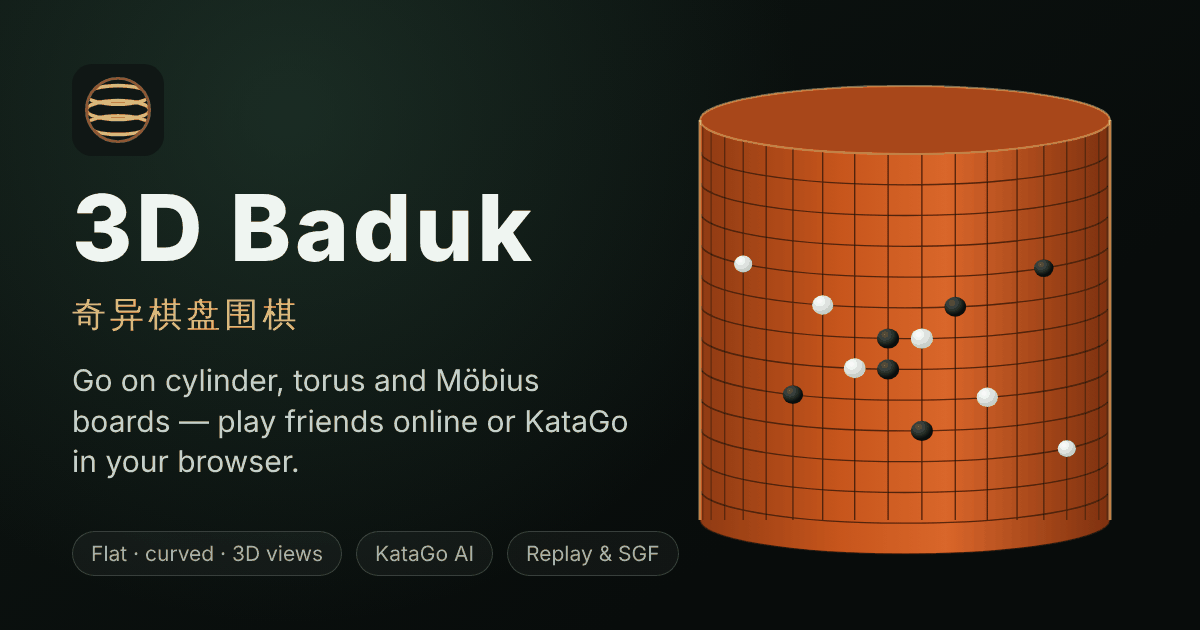
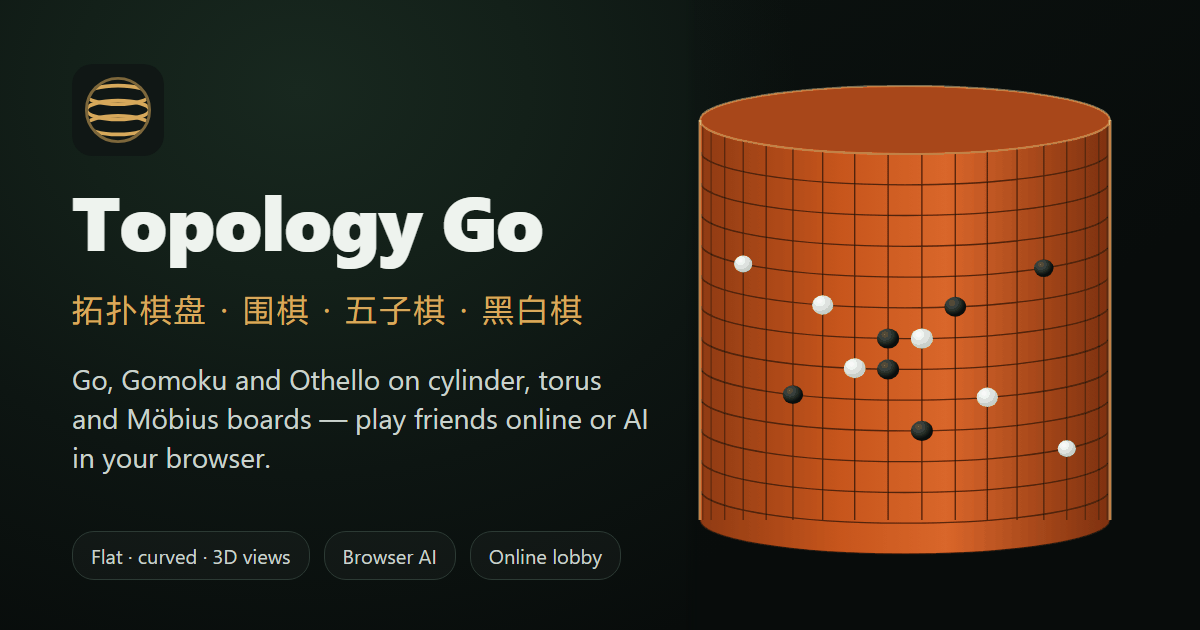
chore: rename the product to Topology Go
The page title, link previews, manifest, favicon, brand, release titles,
SGF application name and package name now say Topology Go, matching the
topology-go Worker and domain. The subtitle names all three games
instead of Go only, and the preview image is redrawn with the new name.

Protocol names, storage keys and Durable Object names keep their
bamboo-baduk/Baduk names: they are persisted or on the wire.

diff --git a/index.html b/index.html
@@ -6,43 +6,43 @@
     <meta name="theme-color" content="#101715" />
     <meta
       name="description"
-      content="3D Baduk：支持竹筒、甜甜圈与莫比乌斯棋盘、KataGo AI、音效、悔棋、完整复盘、在线对局以及平面和三维视图。"
+      content="Topology Go：在竹筒、甜甜圈与莫比乌斯棋盘上下围棋、五子棋和黑白棋，内置浏览器 AI，支持悔棋、完整复盘、在线大厅与对局，以及平面和三维视图。"
     />
     <link rel="icon" href="/favicon.svg" type="image/svg+xml" />
     <link rel="icon" href="/icons/icon-192.png" sizes="192x192" type="image/png" />
     <link rel="apple-touch-icon" href="/icons/apple-touch-icon.png" />
     <link rel="manifest" href="/manifest.webmanifest" />
     <meta property="og:type" content="website" />
-    <meta property="og:site_name" content="3D Baduk" />
-    <meta property="og:title" content="3D Baduk · 奇异棋盘围棋" />
+    <meta property="og:site_name" content="Topology Go" />
+    <meta property="og:title" content="Topology Go · 拓扑棋盘上的围棋、五子棋、黑白棋" />
     <meta
       property="og:description"
-      content="3D Baduk：支持竹筒、甜甜圈与莫比乌斯棋盘、KataGo AI、音效、悔棋、完整复盘、在线对局以及平面和三维视图。"
+      content="Topology Go：在竹筒、甜甜圈与莫比乌斯棋盘上下围棋、五子棋和黑白棋，内置浏览器 AI，支持悔棋、完整复盘、在线大厅与对局，以及平面和三维视图。"
     />
     <!-- Link previews need an absolute image URL: the public deployment (README). -->
     <meta property="og:image" content="https://topology-go.pystashell.workers.dev/og-image.png" />
     <meta property="og:image:width" content="1200" />
     <meta property="og:image:height" content="630" />
-    <meta property="og:image:alt" content="3D Baduk：竹筒棋盘上的围棋" />
+    <meta property="og:image:alt" content="Topology Go：竹筒棋盘上的围棋" />
     <meta name="twitter:card" content="summary_large_image" />
-    <meta name="twitter:title" content="3D Baduk · 奇异棋盘围棋" />
+    <meta name="twitter:title" content="Topology Go · 拓扑棋盘上的围棋、五子棋、黑白棋" />
     <meta
       name="twitter:description"
-      content="3D Baduk：支持竹筒、甜甜圈与莫比乌斯棋盘、KataGo AI、音效、悔棋、完整复盘、在线对局以及平面和三维视图。"
+      content="Topology Go：在竹筒、甜甜圈与莫比乌斯棋盘上下围棋、五子棋和黑白棋，内置浏览器 AI，支持悔棋、完整复盘、在线大厅与对局，以及平面和三维视图。"
     />
     <meta name="twitter:image" content="https://topology-go.pystashell.workers.dev/og-image.png" />
-    <title>3D Baduk · 奇异棋盘围棋</title>
+    <title>Topology Go · 拓扑棋盘上的围棋、五子棋、黑白棋</title>
   </head>
   <body>
     <div id="app">
       <header class="topbar">
-        <a class="brand" href="/single" aria-label="3D Baduk 首页">
+        <a class="brand" href="/single" aria-label="Topology Go 首页">
           <span class="brand-mark" aria-hidden="true">
             <span></span><span></span><span></span>
           </span>
           <span>
-            <strong>3D Baduk</strong>
-            <small>奇异棋盘围棋</small>
+            <strong>Topology Go</strong>
+            <small>围棋 · 五子棋 · 黑白棋</small>
           </span>
         </a>
         <div class="topbar-actions">
@@ -61,7 +61,7 @@
       <main id="lobby-screen" class="online-lobby" aria-labelledby="lobby-title" hidden>
         <section class="lobby-hero">
           <div>
-            <span class="eyebrow">3D Baduk Online</span>
+            <span class="eyebrow">Topology Go Online</span>
             <h1 id="lobby-title">奇异棋盘在线大厅</h1>
             <p>创建竹筒、甜甜圈或莫比乌斯棋局；好友、人机、AI 自对弈和同机双人都可实时同步并开放观战。</p>
           </div>
@@ -147,7 +147,7 @@
           data-topology="cylinder"
           data-chat-pick-hint="📍 点击一个棋点引用到聊天（不会落子）"
           data-analysis-pick-hint="◇ 点击棋点，只在本页建立分析分支"
-          aria-label="3D Baduk 棋盘区域"
+          aria-label="Topology Go 棋盘区域"
         >
           <div id="flat-scene" class="view-surface" aria-label="可横向滑动的竹筒表面平面展开棋盘" hidden></div>
           <div id="arc-scene" class="view-surface" aria-label="可横向循环滑动的3D弧面棋盘"></div>
@@ -522,7 +522,7 @@
             <div>
               <span class="eyebrow">SGF 棋谱</span>
               <strong id="record-actions-title">保存或打开异形棋谱</strong>
-              <small>标准棋步保持兼容，接缝规则写入 3D Baduk 扩展属性</small>
+              <small>标准棋步保持兼容，接缝规则写入 Topology Go 扩展属性</small>
             </div>
             <div class="record-action-buttons">
               <button id="export-sgf" class="secondary-button" type="button">导出 SGF</button>

diff --git a/src/i18n/englishStatic.js b/src/i18n/englishStatic.js
@@ -55,11 +55,11 @@ export const ENGLISH_STATIC = Object.freeze({
   "◉ 立体莫比乌斯": "◉ 3D Möbius",
   "19 × 19 · 竹筒 · 中国规则": "19 × 19 · Cylinder · Chinese rules",
   "19 路 · 竹筒": "19 × 19 · Cylinder",
-  "3D Baduk · 奇异棋盘围棋": "3D Baduk · Go on Unusual Boards",
-  "3D Baduk 棋盘区域": "3D Baduk board area",
-  "3D Baduk 首页": "3D Baduk home",
-  "3D Baduk：支持竹筒、甜甜圈与莫比乌斯棋盘、KataGo AI、音效、悔棋、完整复盘、在线对局以及平面和三维视图。":
-    "3D Baduk supports cylinder, torus, and Möbius boards, KataGo AI, sound effects, undo, full-game replay, online play, and flat and 3D views.",
+  "Topology Go · 拓扑棋盘上的围棋、五子棋、黑白棋": "Topology Go · Go, Gomoku & Othello on Unusual Boards",
+  "Topology Go 棋盘区域": "Topology Go board area",
+  "Topology Go 首页": "Topology Go home",
+  "Topology Go：在竹筒、甜甜圈与莫比乌斯棋盘上下围棋、五子棋和黑白棋，内置浏览器 AI，支持悔棋、完整复盘、在线大厅与对局，以及平面和三维视图。":
+    "Topology Go: play Go, Gomoku and Othello on cylinder, torus and Möbius boards, with in-browser AI, undo, full-game replay, an online lobby and rooms, and flat and 3D views.",
   "AI · 白方": "AI · White",
   "AI 自对弈": "AI vs AI",
   "AI 和 AI 自动对弈": "AI vs AI autoplay",
@@ -167,7 +167,7 @@ export const ENGLISH_STATIC = Object.freeze({
   "复盘播放器": "Replay player",
   "复盘播放控制": "Replay controls",
   "复盘整局": "Replay full game",
-  "奇异棋盘围棋": "Go on Unusual Boards",
+  "围棋 · 五子棋 · 黑白棋": "Go · Gomoku · Othello",
   "尚未开始": "Not started",
   "实时联机": "Live online",
   "宽度": "Width",
@@ -230,8 +230,8 @@ export const ENGLISH_STATIC = Object.freeze({
   "本机 AI 对手": "Local AI opponent",
   "标准 · 20 分钟 + 5×30 秒":
     "Standard · 20 minutes + 5×30 seconds",
-  "标准棋步保持兼容，接缝规则写入 3D Baduk 扩展属性":
-    "Standard moves remain compatible; seam rules are stored in 3D Baduk extension properties",
+  "标准棋步保持兼容，接缝规则写入 Topology Go 扩展属性":
+    "Standard moves remain compatible; seam rules are stored in Topology Go extension properties",
   "桌面端右键、触屏单指可向上下左右或斜向拖动平面，改变两个方向的展开起点。":
     "Right-drag on desktop or drag with one finger on touch screens in any cardinal or diagonal direction to shift the flat view's horizontal and vertical seams.",
   "桌面端右键、触屏单指可横向拖动平面；滑过完整一圈后棋盘会上下翻转，再滑一圈才恢复方向。":
@@ -379,7 +379,7 @@ export const ENGLISH_STATIC = Object.freeze({
   "黑方 · 你先行": "Black · You move first",
   "黑方提子": "Black captures",
   "黑方落子": "Black to move",
-  "3D Baduk：竹筒棋盘上的围棋": "3D Baduk: Go on a cylinder board",
+  "Topology Go：竹筒棋盘上的围棋": "Topology Go: Go on a cylinder board",
   // Online dialog identity recovery panels
   "此浏览器保存了房间身份": "This browser saved a room identity",
   "请选择要恢复的身份；若要以新身份观战或加入，请使用下方按钮。":

diff --git a/test/appShellMeta.test.js b/test/appShellMeta.test.js
@@ -26,7 +26,7 @@ test("the page declares a favicon, touch icon and web app manifest that exist", 
 
   const manifestPath = headAttribute(/<link rel="manifest" href="([^"]+)" \/>/u);
   const manifest = JSON.parse(readFileSync(publicFile(manifestPath), "utf8"));
-  assert.equal(manifest.short_name, "3D Baduk");
+  assert.equal(manifest.short_name, "Topology Go");
   assert.equal(manifest.start_url, "/single");
   assert.equal(manifest.display, "standalone");
   for (const entry of manifest.icons) {

diff --git a/src/game/sgf.js b/src/game/sgf.js
@@ -375,7 +375,7 @@ export function exportSgf(input, options = {}) {
     property("FF", "4"),
     property("GM", "1"),
     property("CA", "UTF-8"),
-    property("AP", "3D Baduk:1"),
+    property("AP", "Topology Go:1"),
     property("SZ", width === height ? width : `${width}:${height}`),
     property("KM", formatNumber(base.komi ?? 0, "komi")),
     property("RU", rules),

diff --git a/docs/PRODUCT_REQUIREMENTS.md b/docs/PRODUCT_REQUIREMENTS.md
@@ -1,9 +1,9 @@
-# 3D Baduk 产品需求与技术复刻规范
+# Topology Go 产品需求与技术复刻规范
 
 > 文档版本：1.4
 > 代码快照：`codex/大厅版` 当前工作区，包含 setup-first 在线房间、持久多轮对局、隐藏大厅单向索引、矩形棋盘、SGF、AI 自对弈、聊天、权威计时、观战分析和版本化发布等增量；最终测试与线上状态仍以第 20、21 节的实测证据为准
-> 产品名称：**3D Baduk（奇异棋盘围棋）**
-> 公开入口：<https://bamboo-baduk.pystashell.workers.dev/>（不代表当前工作区增量已部署）
+> 产品名称：**Topology Go（拓扑棋盘上的围棋、五子棋、黑白棋）**；2026-10 之前叫 3D Baduk（奇异棋盘围棋）。本规范正文以围棋为主，五子棋、黑白棋见 `docs/design/multi-game-plan.md`
+> 公开入口：<https://topology-go.pystashell.workers.dev/>（不代表当前工作区增量已部署）
 > 目标读者：需要在不了解历史讨论的情况下，完整复刻本项目的产品、前端、规则引擎、AI、联机服务和部署流程的工程团队或 AI
 
 ## 0. 文档效力、状态和原则
@@ -1243,7 +1243,7 @@ interface StoredRoomV2 {
 └────────────────────────────────────────┴───────────────────┘
 ~~~
 
-顶部必须直接并列三个拓扑快捷按钮“竹筒 / 甜甜圈 / 莫比乌斯”，设置区也提供对应的三项详细选择；两处高亮和 `aria-pressed` 始终同步。产品名始终显示“3D Baduk”，不得恢复“桶围棋”；竹筒只是棋盘类型。
+顶部必须直接并列三个拓扑快捷按钮“竹筒 / 甜甜圈 / 莫比乌斯”，设置区也提供对应的三项详细选择；两处高亮和 `aria-pressed` 始终同步。产品名始终显示“Topology Go”，不得恢复“桶围棋”或“3D Baduk”；竹筒只是棋盘类型。
 
 侧栏参考 OGS 的信息密度而不复制品牌：黑白棋手/时钟卡始终位于标签栏上方；下方固定五个标签“棋局 / 分析 / 聊天 / 棋谱 / 棋盘设置”。五个标签及其面板在 local/online、当前支持的 controller 组合和观战身份下必须是**同一组 DOM 节点**，只根据 match session snapshot 改内容、权限、disabled/hidden 子控件和提示；不得销毁本地侧栏再创建联机侧栏。一次只显示一个标签面板，隐藏面板不得占布局或进入键盘 Tab 顺序；标签切换不修改棋局、复盘光标、AI 请求或房间状态。
 
@@ -1697,7 +1697,7 @@ npm run deploy
 规范配置：
 
 ~~~text
-worker name       = bamboo-baduk
+worker name       = topology-go
 main              = worker/index.js
 compatibility     = 2026-07-01
 assets directory  = dist
@@ -1709,7 +1709,7 @@ observability     = enabled
 workers.dev       = enabled
 ~~~
 
-部署前必须确认 Wrangler 登录的是预期账户。不得猜测 workers.dev 子域；从部署输出读取真实 URL。目标公开地址为 <https://bamboo-baduk.pystashell.workers.dev/>。
+部署前必须确认 Wrangler 登录的是预期账户。不得猜测 workers.dev 子域；从部署输出读取真实 URL。目标公开地址为 <https://topology-go.pystashell.workers.dev/>。
 
 ### 21.3 部署前检查
 
@@ -1725,13 +1725,13 @@ workers.dev       = enabled
 
 部署成功不等于交付成功。必须验证：
 
-1. 打开真实 URL 得到最新页面标题“3D Baduk”，默认配置正确。
+1. 打开真实 URL 得到最新页面标题“Topology Go”，默认配置正确。
 2. `GET /api/rooms/health` 返回 200，`GET /version.json` 返回本次 SemVer，页面侧栏显示同一版本。
 3. b10 和 b18 四个分片均返回 200、正确 MIME/长度、可缓存；不存在大于平台单文件上限的合并 b18。
 4. 运行：
 
    ~~~powershell
-   npm run test:live -- https://bamboo-baduk.pystashell.workers.dev/
+   npm run test:live -- https://topology-go.pystashell.workers.dev/
    ~~~
 
    smoke 至少验证两个真实 WS 使用 `bamboo-baduk-v2`、双方状态一致、未审查 Unicode 正文及其 `D4` 权威坐标、固定表情包、计时快照、pass 和离开。
@@ -1775,7 +1775,7 @@ npm.cmd run release:rollback -- v0.2.0-rc.1 --yes
 
 ### 21.6 GitHub 交付面
 
-- 代码仓库为 [pystashell/bamboo-cylinder-baduk](https://github.com/pystashell/bamboo-cylinder-baduk)。历史仓库名可保留，但页面产品名和 README 标题使用 3D Baduk。
+- 代码仓库为 [pystashell/topology-go](https://github.com/pystashell/topology-go)（原名 bamboo-cylinder-baduk）。页面产品名和 README 标题使用 Topology Go。
 - README 首屏和 GitHub About 的 homepage 必须包含可直接玩的线上 URL；仓库 description 应说明“异形拓扑的 3D 围棋，支持竹筒/甜甜圈/莫比乌斯、浏览器 KataGo、联机与复盘”。
 - README 必须包含：玩法/拓扑、Flat/Arc/3D、矩形尺寸、主时间/读秒、侧栏/观战、规则差异、AI 本地资源与公平限制、在线隐私/聊天 TTL、SGF 扩展、版本/回滚、开发/测试/部署、第三方许可。
 - 交付提交不得重写或丢弃他人未相关修改；提交作者信息使用用户认可的公开/noreply 身份。推送后核对远端 commit，而非只看本地成功。

diff --git a/README.md b/README.md
@@ -1,6 +1,6 @@
 # Topology Go: Baduk Beyond Flat Boards
 
-A fully playable Go game on cylinders, tori, and Möbius strips—built during OpenAI Build Week with Codex and GPT-5.6.
+A fully playable Go game on cylinders, tori, and Möbius strips—built during OpenAI Build Week with Codex and GPT-5.6. Gomoku (freestyle and Renju) and Othello now share the same boards, views, lobby and AI opponents.
 
 **Live demo:**
 https://topology-go.pystashell.workers.dev/
@@ -66,6 +66,13 @@ A complete game can also be replayed on the cylinder, torus, or Möbius strip, a
 - Territory traversal and dead-stone marking
 - Chinese area scoring and simplified territory scoring (Japanese-style; seki eyes are not excluded)
 - Configurable komi
+
+### Gomoku and Othello
+
+- Gomoku with freestyle rules (five or more wins) or Renju (Black's double three, double four and overline are refused)
+- Othello on even boards from 6×6 to 30×30; rays that wrap back to their start flip nothing
+- Fives, flips and Renju forbidden points work across every seam
+- Both games support the same local, AI, online, lobby and replay features as Go
 
 ### Ways to play
 
@@ -200,6 +207,11 @@ The available models are:
 Inference runs locally in the player's browser inside a Web Worker. No account or paid inference API is required.
 
 Because ordinary KataGo networks were trained on standard flat Go boards, the project does not claim that their normal-board strength transfers perfectly to unusual topologies.
+
+The other games have their own engines, also running in a Web Worker:
+
+- **Gomoku: [Rapfi](https://github.com/dhbloo/rapfi)** (GPL-3, networks CC0), compiled to WebAssembly. It sees a flat window of the topology board; our own exact tactics handle wins, blocks and VCF across seams first. See [public/engines/rapfi/SOURCE.md](public/engines/rapfi/SOURCE.md).
+- **Othello: our own engine.** No open-source Othello engine handles wrap-around boards, so this one builds its rays from the real topology and searches with PVS, a transposition table and an exact endgame solver.
 
 ---
 

diff --git a/docs/RELEASES.md b/docs/RELEASES.md
@@ -1,4 +1,4 @@
-# 3D Baduk 发布与回滚
+# Topology Go 发布与回滚
 
 本项目把一次发布绑定为四个可核对的标识：
 
